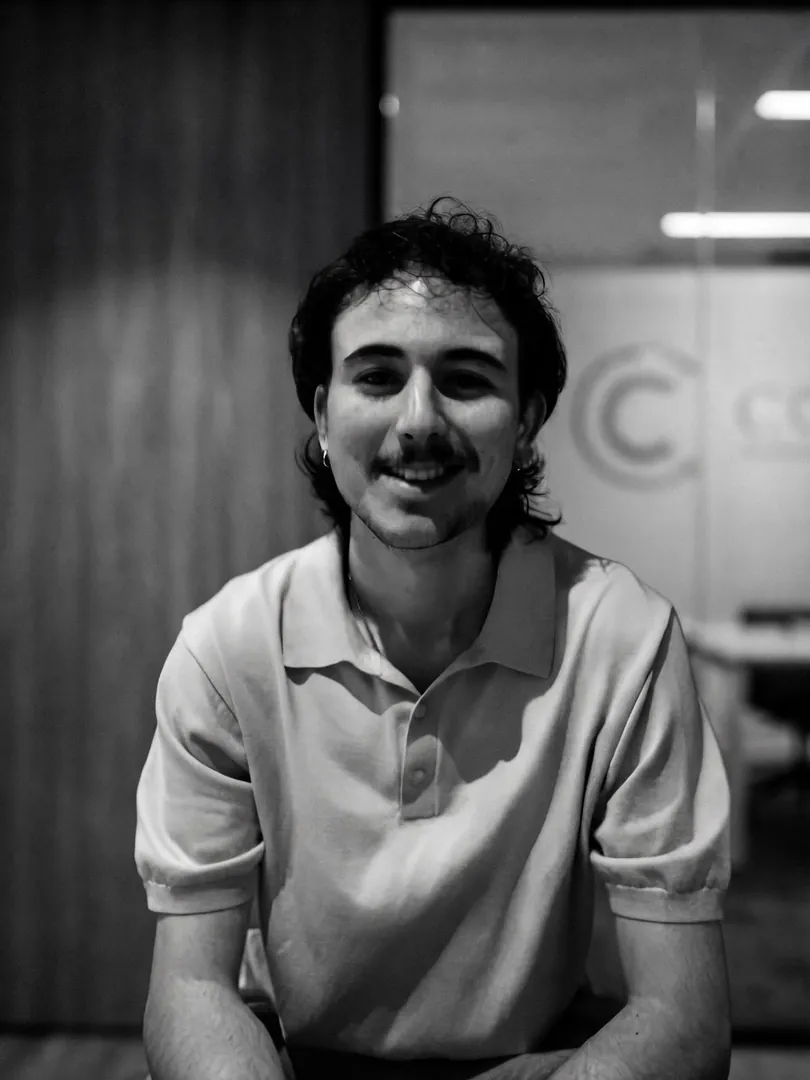
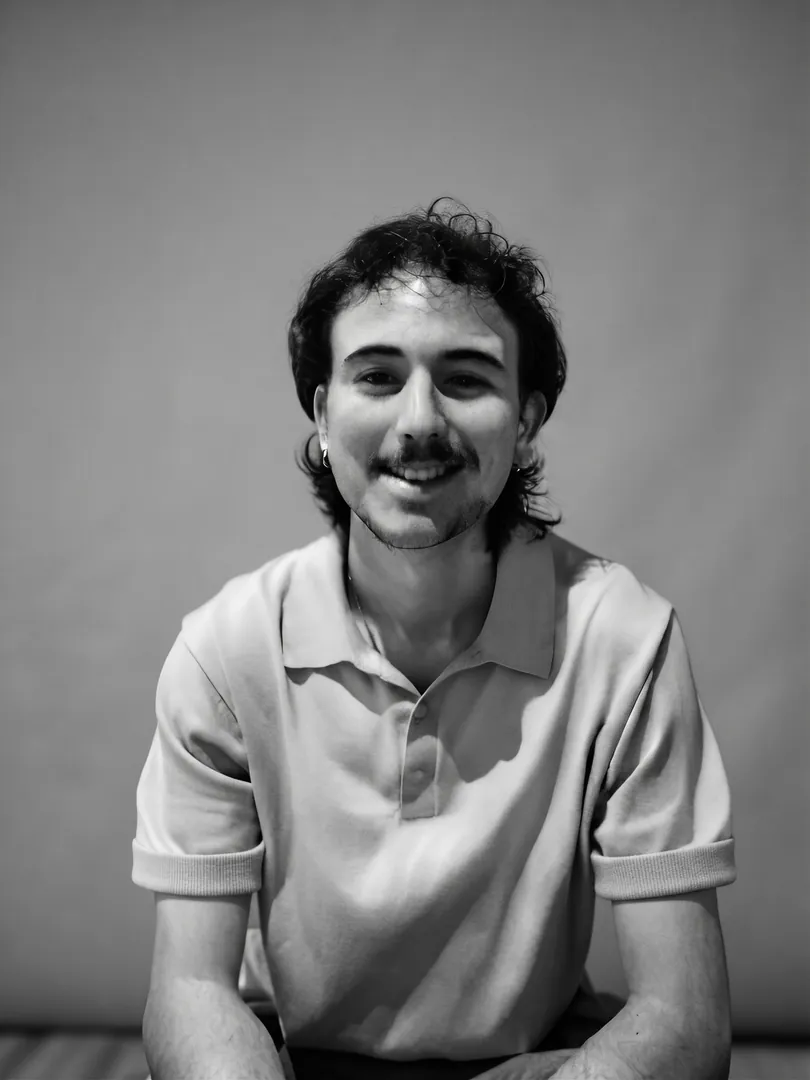
Swap About portrait to new image and refresh silhouette outline to match

diff --git a/index.html b/index.html
@@ -223,66 +223,69 @@
                  Coordinates are in 260x260 display-box space (viewBox 0 0 260 260),
                  matching the photo crop (object-fit cover, position 68% 22%). -->
             <svg class="portrait-outline" viewBox="0 0 260 260" preserveAspectRatio="none" aria-hidden="true" focusable="false">
-                                          <path fill="none" d="M 43.19 251.98 C 43.33 248.95, 42.80 240.32, 43.98 234.00 C 45.16 227.68,
-                49.18 219.66, 50.27 214.07 C 51.35 208.47, 49.05 206.12, 50.48 200.42 C 51.92
-                194.71, 57.27 183.53, 58.86 179.83 C 60.45 176.14, 58.67 179.29, 60.02 178.24
-                C 61.36 177.20, 64.42 175.54, 66.95 173.55 C 69.48 171.56, 72.73 167.94, 75.18
-                166.33 C 77.64 164.71, 79.16 165.14, 81.68 163.87 C 84.21 162.61, 87.71
-                160.01, 90.35 158.74 C 92.99 157.48, 95.01 157.41, 97.50 156.29 C 99.99
-                155.17, 103.75 153.05, 105.30 152.03 C 106.85 151.00, 106.62 150.86, 106.82
-                150.15 C 107.01 149.44, 107.05 148.56, 106.46 147.77 C 105.87 146.97, 103.84
-                146.32, 103.28 145.38 C 102.71 144.44, 103.46 143.07, 103.06 142.13 C 102.66
-                141.19, 101.51 140.94, 100.89 139.75 C 100.28 138.56, 100.05 136.21, 99.38
-                134.98 C 98.70 133.76, 97.52 133.32, 96.85 132.38 C 96.18 131.44, 95.57
-                130.14, 95.33 129.35 C 95.09 128.56, 95.10 128.16, 95.41 127.62 C 95.71
-                127.08, 96.62 127.00, 97.14 126.10 C 97.66 125.20, 97.92 123.28, 98.51 122.20
-                C 99.10 121.12, 100.27 120.36, 100.68 119.60 C 101.09 118.84, 101.58 118.99,
-                100.97 117.65 C 100.35 116.31, 97.97 113.46, 96.99 111.58 C 96.02 109.71,
-                95.83 109.53, 95.12 106.38 C 94.41 103.24, 93.13 95.69, 92.73 92.73 C 92.34
-                89.77, 92.56 90.06, 92.73 88.62 C 92.90 87.17, 92.53 86.99, 93.74 84.07 C
-                94.96 81.14, 98.79 73.56, 100.03 71.07 C 101.27 68.58, 99.51 70.49, 101.18
-                69.12 C 102.86 67.74, 107.94 64.71, 110.07 62.83 C 112.20 60.96, 112.92 58.98,
-                113.97 57.85 C 115.01 56.72, 114.98 56.85, 116.35 56.04 C 117.72 55.24, 119.46
-                54.12, 122.20 53.01 C 124.94 51.90, 130.54 49.92, 132.82 49.40 C 135.09 48.88,
-                134.80 50.59, 135.85 49.91 C 136.90 49.22, 138.27 46.25, 139.10 45.28 C 139.93
-                44.32, 139.79 44.32, 140.83 44.13 C 141.88 43.94, 143.29 43.20, 145.38 44.13 C
-                147.48 45.05, 151.41 48.74, 153.40 49.69 C 155.39 50.64, 156.28 49.34, 157.30
-                49.83 C 158.32 50.33, 159.03 51.78, 159.54 52.65 C 160.04 53.52, 159.70 54.09,
-                160.33 55.03 C 160.97 55.97, 161.74 57.34, 163.37 58.28 C 164.99 59.22, 168.74
-                59.58, 170.08 60.67 C 171.43 61.75, 170.59 63.12, 171.46 64.78 C 172.32 66.44,
-                174.57 69.15, 175.28 70.63 C 175.99 72.11, 176.01 72.80, 175.72 73.67 C 175.43
-                74.53, 173.92 75.33, 173.55 75.83 C 173.18 76.34, 172.80 75.91, 173.48 76.70 C
-                174.15 77.49, 176.35 78.00, 177.59 80.60 C 178.83 83.20, 180.22 89.70, 180.92
-                92.30 C 181.61 94.90, 181.75 94.25, 181.78 96.20 C 181.82 98.15, 181.99
-                101.04, 181.13 104.00 C 180.28 106.96, 178.00 111.51, 176.66 113.97 C 175.31
-                116.42, 173.96 117.25, 173.04 118.73 C 172.13 120.21, 170.87 121.08, 171.17
-                122.85 C 171.47 124.62, 174.34 127.47, 174.85 129.35 C 175.36 131.23, 174.56
-                132.67, 174.20 134.12 C 173.84 135.56, 172.83 137.26, 172.68 138.02 C 172.54
-                138.78, 172.79 138.56, 173.33 138.67 C 173.88 138.78, 175.64 138.47, 175.93
-                138.67 C 176.22 138.86, 176.04 139.50, 175.07 139.82 C 174.09 140.15, 170.85
-                140.12, 170.08 140.62 C 169.31 141.11, 170.08 142.12, 170.44 142.78 C 170.81
-                143.45, 171.44 144.06, 172.25 144.59 C 173.06 145.12, 174.67 145.55, 175.28
-                145.96 C 175.90 146.37, 175.57 146.78, 175.93 147.04 C 176.29 147.31, 176.78
-                147.71, 177.45 147.55 C 178.12 147.39, 179.62 145.93, 179.98 146.11 C 180.34
-                146.29, 180.16 147.89, 179.62 148.63 C 179.08 149.38, 176.94 149.93, 176.73
-                150.58 C 176.51 151.23, 176.61 151.43, 178.32 152.53 C 180.03 153.64, 183.48
-                155.65, 186.98 157.23 C 190.49 158.80, 195.90 160.03, 199.33 161.99 C 202.76
-                163.96, 205.15 167.11, 207.57 169.00 C 209.99 170.89, 212.48 172.25, 213.85
-                173.33 C 215.22 174.42, 215.07 174.27, 215.80 175.50 C 216.53 176.73, 217.14
-                177.12, 218.26 180.70 C 219.38 184.28, 220.43 190.34, 222.52 196.95 C 224.60
-                203.56, 228.76 213.99, 230.75 220.35 C 232.74 226.71, 233.82 228.19, 234.43
-                235.08 C 235.05 241.98, 234.90 255.96, 234.43 261.73 C 233.96 267.51, 231.58
-                261.37, 231.62 269.75 C 231.65 278.13, 234.29 302.76, 234.65 312.00 C 235.01
-                321.24, 234.11 322.65, 233.78 325.22 C 233.46 327.78, 255.78 327.02, 232.70
-                327.38 C 209.63 327.74, 118.87 329.12, 95.33 327.38 C 71.80 325.65, 92.48
-                318.90, 91.51 316.98 C 90.53 315.07, 89.93 315.94, 89.48 315.90 C 89.04
-                315.86, 88.47 314.85, 88.83 316.77 C 89.19 318.68, 98.29 325.63, 91.65 327.38
-                C 85.01 329.14, 56.51 328.90, 48.97 327.31 C 41.42 325.72, 46.87 320.69, 46.37
-                317.85 C 45.86 315.01, 45.18 317.38, 45.93 310.27 C 46.69 303.15, 50.64
-                281.49, 50.92 275.17 C 51.19 268.85, 48.39 274.12, 47.59 272.35 C 46.80
-                270.58, 46.86 267.08, 46.15 264.55 C 45.44 262.02, 43.84 259.24, 43.33 257.18
-                C 42.83 255.12, 43.14 253.07, 43.12 252.20 C 43.09 251.33, 43.04 255.02, 43.19
-                251.98 Z" />
+                                                        <path fill="none" d="M 42.32 251.33 C 42.58 250.39, 43.49 248.91, 43.77 245.92 C 44.04 242.92,
+                42.90 238.77, 43.98 233.35 C 45.07 227.93, 49.29 218.15, 50.27 213.42 C 51.24
+                208.69, 49.80 207.21, 49.83 204.97 C 49.87 202.73, 49.01 204.17, 50.48 199.98
+                C 51.95 195.79, 57.02 183.52, 58.64 179.83 C 60.27 176.15, 58.56 179.16, 60.23
+                177.88 C 61.91 176.61, 66.26 174.10, 68.68 172.18 C 71.10 170.25, 72.58
+                167.71, 74.75 166.33 C 76.92 164.94, 79.16 165.11, 81.68 163.87 C 84.21
+                162.63, 87.21 160.19, 89.92 158.89 C 92.62 157.59, 95.41 157.24, 97.93 156.07
+                C 100.46 154.90, 103.75 152.80, 105.08 151.88 C 106.42 150.97, 105.94 151.20,
+                105.95 150.58 C 105.96 149.97, 105.75 149.18, 105.16 148.20 C 104.57 147.23,
+                103.27 146.11, 102.41 144.73 C 101.56 143.36, 100.55 141.56, 100.03 139.97 C
+                99.51 138.38, 99.94 136.57, 99.31 135.20 C 98.67 133.83, 96.93 132.74, 96.20
+                131.73 C 95.47 130.72, 95.10 129.86, 94.90 129.13 C 94.70 128.41, 94.66
+                127.83, 94.97 127.40 C 95.29 126.97, 96.22 127.40, 96.78 126.53 C 97.33
+                125.67, 97.81 123.14, 98.29 122.20 C 98.78 121.26, 99.47 120.14, 99.67 120.90
+                C 99.86 121.66, 99.20 125.39, 99.45 126.75 C 99.70 128.11, 100.75 128.84,
+                101.18 129.06 C 101.62 129.28, 102.09 129.95, 102.05 128.05 C 102.01 126.15,
+                101.99 120.76, 100.97 117.65 C 99.94 114.54, 97.32 113.64, 95.91 109.42 C
+                94.50 105.19, 93.05 96.06, 92.52 92.30 C 91.99 88.54, 92.13 89.34, 92.73 86.88
+                C 93.34 84.43, 94.77 80.53, 96.13 77.57 C 97.49 74.61, 98.72 71.54, 100.89
+                69.12 C 103.07 66.70, 107.02 65.04, 109.20 63.05 C 111.38 61.06, 111.84 58.91,
+                113.97 57.20 C 116.10 55.49, 118.91 54.13, 121.98 52.79 C 125.05 51.46, 130.00
+                49.80, 132.38 49.18 C 134.77 48.57, 135.27 49.62, 136.28 49.11 C 137.29 48.61,
+                137.66 46.98, 138.45 46.15 C 139.24 45.32, 139.93 44.46, 141.05 44.13 C 142.17
+                43.79, 143.11 43.15, 145.17 44.13 C 147.23 45.10, 151.41 48.83, 153.40 49.98 C
+                155.39 51.12, 156.11 50.15, 157.08 50.99 C 158.06 51.83, 158.09 53.73, 159.25
+                55.03 C 160.41 56.33, 162.46 57.90, 164.02 58.79 C 165.57 59.68, 167.52 59.85,
+                168.57 60.38 C 169.61 60.91, 169.71 61.34, 170.30 61.97 C 170.89 62.59, 171.31
+                62.76, 172.11 64.13 C 172.90 65.51, 174.46 68.61, 175.07 70.20 C 175.67 71.79,
+                175.80 72.55, 175.72 73.67 C 175.63 74.79, 174.27 75.98, 174.56 76.92 C 174.85
+                77.86, 176.75 78.47, 177.45 79.30 C 178.15 80.13, 178.39 80.35, 178.75 81.90 C
+                179.11 83.45, 179.11 86.16, 179.62 88.62 C 180.12 91.07, 181.46 94.36, 181.78
+                96.63 C 182.11 98.91, 182.46 99.27, 181.57 102.27 C 180.68 105.26, 177.85
+                111.91, 176.44 114.62 C 175.03 117.33, 174.09 117.11, 173.12 118.52 C 172.14
+                119.92, 170.34 121.44, 170.59 123.07 C 170.84 124.69, 174.20 125.85, 174.63
+                128.27 C 175.07 130.69, 173.04 135.95, 173.19 137.58 C 173.33 139.22, 175.04
+                137.87, 175.50 138.09 C 175.96 138.31, 175.93 138.61, 175.93 138.88 C 175.93
+                139.16, 176.08 139.35, 175.50 139.75 C 174.92 140.15, 173.03 140.54, 172.47
+                141.27 C 171.90 141.99, 171.35 143.07, 172.11 144.08 C 172.86 145.09, 175.70
+                146.97, 177.02 147.33 C 178.33 147.69, 179.58 146.00, 179.98 146.25 C 180.38
+                146.50, 179.94 148.16, 179.40 148.85 C 178.86 149.54, 177.09 149.90, 176.73
+                150.37 C 176.37 150.84, 175.45 150.50, 177.23 151.67 C 179.01 152.83, 184.53
+                155.88, 187.42 157.37 C 190.31 158.86, 192.58 159.85, 194.57 160.62 C 196.55
+                161.39, 197.49 160.78, 199.33 161.99 C 201.18 163.21, 203.27 166.06, 205.62
+                167.92 C 207.96 169.77, 211.62 171.71, 213.42 173.12 C 215.21 174.53, 215.44
+                174.49, 216.38 176.37 C 217.32 178.24, 217.77 179.54, 219.05 184.38 C 220.33
+                189.22, 222.32 199.84, 224.03 205.40 C 225.74 210.96, 227.82 213.71, 229.31
+                217.75 C 230.79 221.79, 232.06 226.20, 232.92 229.67 C 233.77 233.13, 234.22
+                235.95, 234.43 238.55 C 234.65 241.15, 234.04 243.14, 234.22 245.27 C 234.40
+                247.40, 235.19 248.52, 235.52 251.33 C 235.84 254.15, 236.24 260.04, 236.17
+                262.17 C 236.09 264.30, 235.99 263.55, 235.08 264.12 C 234.18 264.68, 231.62
+                265.16, 230.75 265.56 C 229.88 265.96, 229.27 260.10, 229.88 266.50 C 230.50
+                272.90, 233.64 295.61, 234.43 303.98 C 235.23 312.36, 234.76 313.19, 234.65
+                316.77 C 234.54 320.34, 234.07 323.66, 233.78 325.43 C 233.49 327.20, 256.03
+                327.06, 232.92 327.38 C 209.81 327.71, 118.54 328.83, 95.12 327.38 C 71.69
+                325.94, 93.49 321.27, 92.37 318.72 C 91.25 316.16, 89.06 312.54, 88.40 312.07
+                C 87.74 311.60, 87.89 313.35, 88.40 315.90 C 88.91 318.45, 98.08 325.47, 91.43
+                327.38 C 84.79 329.30, 56.15 329.37, 48.53 327.38 C 40.91 325.40, 46.22
+                318.39, 45.72 315.47 C 45.21 312.54, 45.03 313.52, 45.50 309.83 C 45.97
+                306.15, 47.77 298.68, 48.53 293.37 C 49.29 288.06, 49.80 281.85, 50.05 277.98
+                C 50.30 274.12, 50.19 271.95, 50.05 270.18 C 49.91 268.41, 50.12 268.19, 49.18
+                267.37 C 48.24 266.55, 45.55 265.92, 44.42 265.27 C 43.29 264.62, 42.76
+                265.75, 42.39 263.47 C 42.03 261.18, 42.26 253.57, 42.25 251.55 C 42.24
+                249.53, 42.07 252.27, 42.32 251.33 Z" />
             </svg>
           </div>
           <div class="about-copy">
